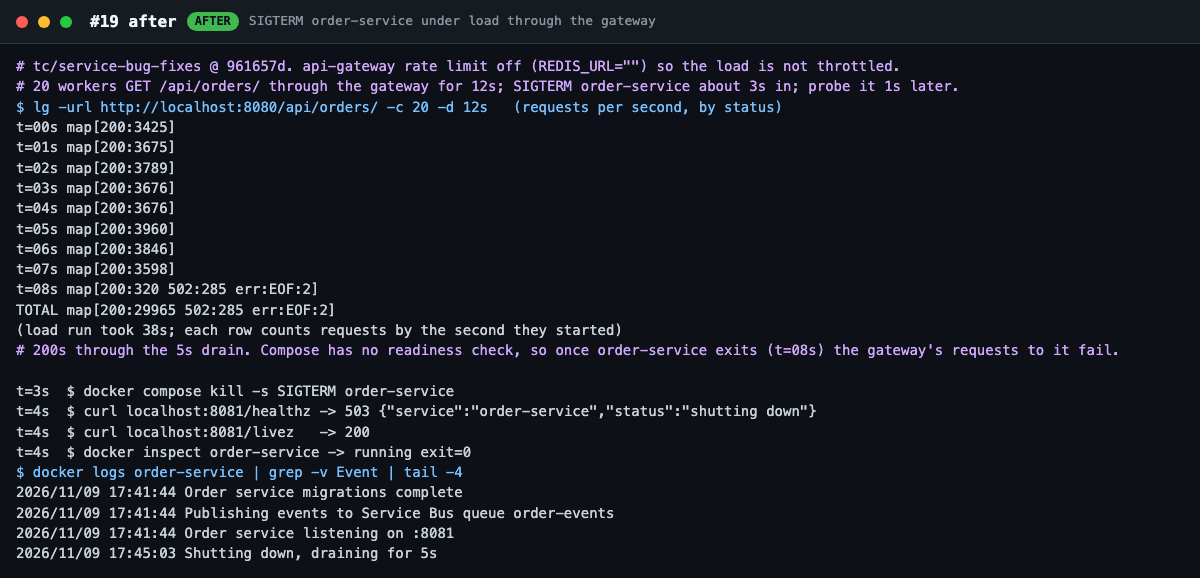
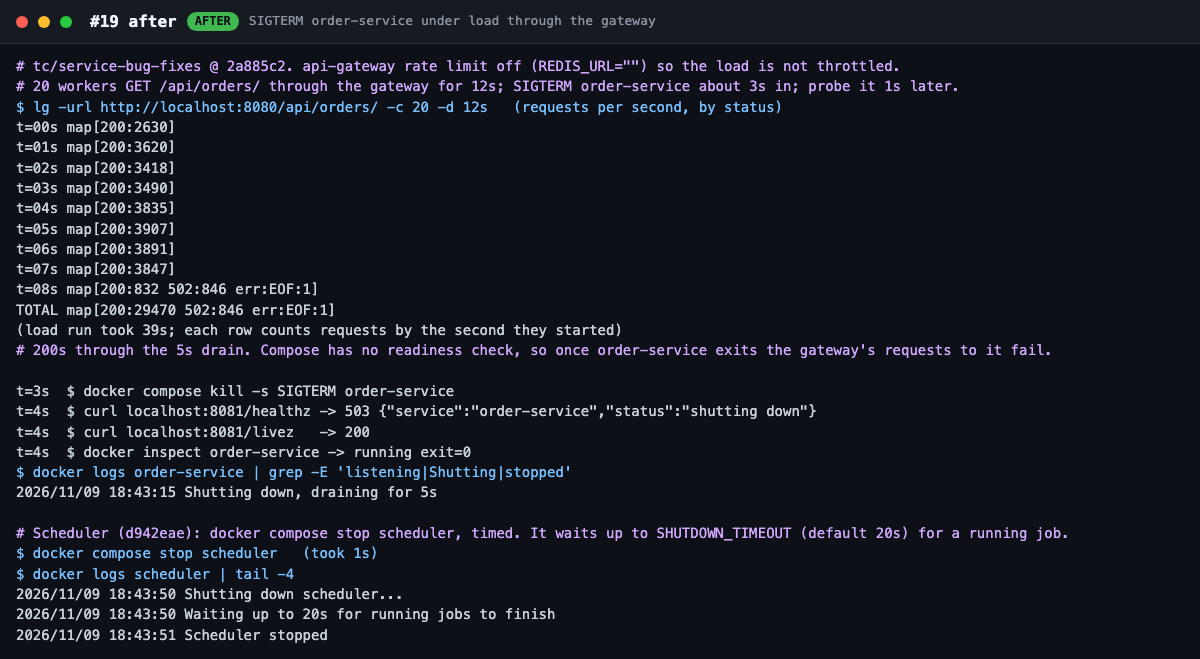
docs: add fix images and recapture the after screenshots
Each bug now has three images: before on main, the key lines of its fix, and after on the branch. The after images were recaptured at 2a885c2 under docker compose, so they include the later fixes for #19, #123, #128 and #129 and the role model from e467409. Scenarios that need an admin since e467409 sign in as admin@platform.local.

#128 also shows the X-Forwarded-For a backend receives. #129 adds a UI image of the page recovering from an expired token. The README lists the other fixes on the branch that are not tied to one of these bugs.

Part of #20

diff --git a/docs/screenshots/bugs/README.md b/docs/screenshots/bugs/README.md
@@ -1,73 +1,167 @@
 # Bug fix screenshots
 
-**TL;DR:** Before and after evidence for the nine bug fixes on `tc/service-bug-fixes`, for [#20](https://github.com/tahmidachoudhury/aks-v2-platform/issues/20). "Before" images come from `main` (574859d), "after" images from the branch (961657d), both under docker compose. All output was captured from the running stack. JWTs and the webhook secret are truncated.
+**TL;DR:** Evidence for nine bug fixes on `tc/service-bug-fixes`, for [#20](https://github.com/tahmidachoudhury/aks-v2-platform/issues/20). Each bug has three images. "Before" shows the bug on `main` (574859d). "Fix" shows the key lines of the change. "After" shows the same scenario on the branch at 2a885c2. The four commits after it (12edbc5, 8c9a640, ce76f7a, 4063259) do not change any scenario shown here. Before and after were captured from the running stack under docker compose. JWTs and the webhook secret are truncated.
 
-Most images are terminal panels showing the request and the real output. The two #129 UI images show the dashboard in Chromium, with the page's own requests listed underneath.
+Most images are terminal panels showing the request and the real output. The fix images are trimmed diffs: `...` marks lines left out. The #129 UI images show the dashboard in Chromium, with the page's own requests listed underneath.
+
+Since e467409, tokens carry a role. Only an admin can read the dashboard, add products, reserve stock, charge, refund or create shipments. Compose makes `admin@platform.local` an admin, so the after scenarios sign in as that admin for those calls. The before scenarios used alice or bob.
+
+[#134](https://github.com/tahmidachoudhury/aks-v2-platform/issues/134) (delivered orders never deduct stock) is a known open bug. It is not part of this set.
 
 ## #122: dashboard routes return 404 through the gateway
 
-[#122](https://github.com/tahmidachoudhury/aks-v2-platform/issues/122). `GET /api/dashboard/summary` with a JWT returns 404 before the fix and the summary JSON after it.
+[#122](https://github.com/tahmidachoudhury/aks-v2-platform/issues/122). `GET /api/dashboard/summary` with a JWT returns 404, because the gateway strips `/api/dashboard` and dashboard-api only serves `/dashboard/...`.
 
 ![#122 before](122-before.png)
+
+The gateway now proxies `/api/dashboard` to dashboard-api's `/dashboard` path ([4835113](https://github.com/tahmidachoudhury/aks-v2-platform/commit/4835113)).
+
+![#122 fix](122-fix.png)
+
+After, the same request returns the summary JSON, signed in as the admin.
+
 ![#122 after](122-after.png)
 
 ## #129: dashboard data has no auth
 
-[#129](https://github.com/tahmidachoudhury/aks-v2-platform/issues/129). Before, `:8086/dashboard/summary` returns revenue and order data with no token. After, it returns 401 directly and 401 through the gateway without a JWT, and 200 with one.
+[#129](https://github.com/tahmidachoudhury/aks-v2-platform/issues/129). `:8086/dashboard/summary` and `/dashboard/revenue` return revenue and order data with no token.
 
 ![#129 before](129-before.png)
+
+dashboard-api now rejects `/dashboard/*` without the identity the gateway sets ([12319b9](https://github.com/tahmidachoudhury/aks-v2-platform/commit/12319b9)), and only serves it to role `admin` ([e467409](https://github.com/tahmidachoudhury/aks-v2-platform/commit/e467409)). The gateway serves the UI page at `/` without a JWT, so the page and its API calls share one origin.
+
+![#129 fix](129-fix.png)
+
+After, it returns 401 straight to dashboard-api, 401 through the gateway without a JWT, 403 for alice (a customer) and 200 for the admin.
+
 ![#129 after](129-after.png)
 
-The dashboard UI under compose. On `main`, `:8080/` returns 401, and `:8086/` shows the stats with no login while every `/auth` and `/api` call 404s. After the fix, `:8080/` serves the page, it logs in, and every call and health dot is green.
+### Dashboard UI
+
+On `main`, `:8080/` returns 401. `:8086/` shows the stats with no login, while every `/auth` and `/api` call returns 404.
 
 ![#129 UI before](129-ui-before.png)
+
+The page only logged in when it had no saved token, so an expired token, or one signed with an old secret, left it empty. Its API calls now go through one helper that logs in again on a 401 and retries once ([dcb3d8c](https://github.com/tahmidachoudhury/aks-v2-platform/commit/dcb3d8c)). On load it also drops a saved token whose role is not admin, which would get 403 rather than 401 ([2a885c2](https://github.com/tahmidachoudhury/aks-v2-platform/commit/2a885c2)).
+
+![#129 UI fix](129-ui-fix.png)
+
+After, `:8080/` serves the page, it logs in as the admin, and every call and health dot is green.
+
 ![#129 UI after](129-ui-after.png)
+
+With an expired admin token in localStorage, the first six calls get 401. The page logs in once, retries them and loads. With a garbage token or alice's customer token, the page drops it before any call, logs in and loads.
+
+![#129 UI relogin](129-ui-relogin.png)
 
 ## #125: JWT_SECRET falls back to a public default
 
-[#125](https://github.com/tahmidachoudhury/aks-v2-platform/issues/125). Before, the gateway starts with an empty `JWT_SECRET`, and a token forged with `change-me-in-production` reads alice's orders. After, the gateway exits with `JWT_SECRET is required`, and the forged token gets 401.
+[#125](https://github.com/tahmidachoudhury/aks-v2-platform/issues/125). The gateway starts with an empty `JWT_SECRET`, and a token forged with `change-me-in-production` reads alice's orders.
 
 ![#125 before](125-before.png)
+
+The gateway now exits if `JWT_SECRET` is unset or empty ([d7c34b3](https://github.com/tahmidachoudhury/aks-v2-platform/commit/d7c34b3)).
+
+![#125 fix](125-fix.png)
+
+After, the gateway exits with `JWT_SECRET is required`, and the forged token gets 401.
+
 ![#125 after](125-after.png)
 
 ## #128: rate limit key comes from X-Forwarded-For
 
-[#128](https://github.com/tahmidachoudhury/aks-v2-platform/issues/128). 150 requests, each with a new forged `X-Forwarded-For`. Before: 150 × 200 and 150 Redis keys. After: 100 × 200, 50 × 429 and one key.
+[#128](https://github.com/tahmidachoudhury/aks-v2-platform/issues/128). 150 requests, each with a new forged `X-Forwarded-For`, all return 200 and make 150 Redis keys.
 
 ![#128 before](128-before.png)
+
+The rate limit reads `X-Forwarded-For` only from a proxy in `TRUSTED_PROXIES`, then takes the right-most untrusted hop ([bd28ecc](https://github.com/tahmidachoudhury/aks-v2-platform/commit/bd28ecc)). The gateway no longer overwrites the header with `ip:port` when proxying, so the chain reaches the backends intact ([dd53263](https://github.com/tahmidachoudhury/aks-v2-platform/commit/dd53263)).
+
+![#128 fix](128-fix.png)
+
+After, the same 150 requests give 100 × 200, 50 × 429 and one key. In the second part, `/api/notifications` points at a stub that echoes the `X-Forwarded-For` it receives. The client's chain arrives with the peer IP appended and no port.
+
 ![#128 after](128-after.png)
 
 ## #126: backends trust X-User-Email
 
-[#126](https://github.com/tahmidachoudhury/aks-v2-platform/issues/126). Before, order-service returns every order to a request with no `X-User-Email`, and bob reads alice's order. After, the request with no header gets 401, bob gets 404 on alice's order, and bob still reads his own.
+[#126](https://github.com/tahmidachoudhury/aks-v2-platform/issues/126). order-service returns every order to a request with no `X-User-Email`, and bob reads alice's order.
 
 ![#126 before](126-before.png)
+
+The gateway drops identity headers sent by the client, and every backend needs `X-User-Email` ([ae8a201](https://github.com/tahmidachoudhury/aks-v2-platform/commit/ae8a201)). Tokens now carry role `customer` or `admin`, and customers only see and change their own data ([e467409](https://github.com/tahmidachoudhury/aks-v2-platform/commit/e467409)). A customer can only cancel their own order. Any other status change needs admin or service ([27bf031](https://github.com/tahmidachoudhury/aks-v2-platform/commit/27bf031)). The image shows order-service. The other backends follow the same rules.
+
+![#126 fix](126-fix.png)
+
+After, the request with no header gets 401. Bob gets 404 on alice's order and still reads his own. Bob gets 404 trying to cancel alice's order, and alice gets 403 trying to mark her own order delivered.
+
 ![#126 after](126-after.png)
 
 ## #124: charge ignores ledger and commit errors
 
-[#124](https://github.com/tahmidachoudhury/aks-v2-platform/issues/124). A `CHECK (false)` constraint makes every ledger insert fail. Before, the charge returns 201 `completed` with no payment row, and the worker confirms the order. After, it returns 500 and publishes no event.
+[#124](https://github.com/tahmidachoudhury/aks-v2-platform/issues/124). A `CHECK (false)` constraint makes every ledger insert fail. The charge still returns 201 `completed` with no payment row, and the worker confirms the order.
 
 ![#124 before](124-before.png)
+
+Both ledger inserts and the commit now return 500 on error, before any event is published ([983f2b5](https://github.com/tahmidachoudhury/aks-v2-platform/commit/983f2b5)).
+
+![#124 fix](124-fix.png)
+
+After, the same charge, made by the admin, returns 500 and publishes no event.
+
 ![#124 after](124-after.png)
 
 ## #127: shipping webhook has no auth
 
-[#127](https://github.com/tahmidachoudhury/aks-v2-platform/issues/127). Before, a webhook with no secret and status `delivered.FAKE` returns 200 and writes that status to the shipment. After, it gets 401 without the secret and 400 for the invented status, and a known status still works.
+[#127](https://github.com/tahmidachoudhury/aks-v2-platform/issues/127). A webhook with no secret and status `delivered.FAKE` returns 200 and writes that status to the shipment.
 
 ![#127 before](127-before.png)
+
+The webhook now checks `X-Webhook-Secret` against `SHIPPING_WEBHOOK_SECRET`, and accepts only four known statuses ([37c36b6](https://github.com/tahmidachoudhury/aks-v2-platform/commit/37c36b6)).
+
+![#127 fix](127-fix.png)
+
+After, it returns 401 without the secret and 400 for the invented status. A known status still works.
+
 ![#127 after](127-after.png)
 
 ## #123: scheduler cancels orders outside the state machine
 
-[#123](https://github.com/tahmidachoudhury/aks-v2-platform/issues/123). The scheduler cancels a pending order with 3 widgets reserved, backdated 31 minutes. Before, there is no `order_events` row and the reservation stays active. After, there is a `pending → cancelled` row and the reservation is released.
+[#123](https://github.com/tahmidachoudhury/aks-v2-platform/issues/123). The scheduler cancels a pending order with 3 widgets reserved, backdated 31 minutes. No `order_events` row is written, the reservation stays active, and the log line carries alice's email.
 
 ![#123 before](123-before.png)
+
+The scheduler now cancels through order-service's `/status` and releases stock through inventory-service ([c117707](https://github.com/tahmidachoudhury/aks-v2-platform/commit/c117707)). It no longer logs the customer ([2465958](https://github.com/tahmidachoudhury/aks-v2-platform/commit/2465958)).
+
+![#123 fix](123-fix.png)
+
+After, there is a `pending → cancelled` row, the reservation is released, and the log line shows only the order ID.
+
 ![#123 after](123-after.png)
 
 ## #19: graceful shutdown on SIGTERM
 
-[#19](https://github.com/tahmidachoudhury/aks-v2-platform/issues/19). SIGTERM to order-service under load through the gateway. Before, the process exits at once and the gateway returns 502s. After, requests keep returning 200 through the 5s drain, while `/healthz` returns 503 and `/livez` returns 200. Compose has no readiness check, so the 502s after the drain, once the container has exited, are expected here.
+[#19](https://github.com/tahmidachoudhury/aks-v2-platform/issues/19). SIGTERM to order-service under load through the gateway. The process exits at once, and the gateway returns 502s.
 
 ![#19 before](19-before.png)
+
+Each HTTP service now fails `/healthz` on SIGTERM, keeps serving for `SHUTDOWN_DRAIN_DELAY` (5s), then lets in-flight requests finish ([961657d](https://github.com/tahmidachoudhury/aks-v2-platform/commit/961657d)). The scheduler waits at most `SHUTDOWN_TIMEOUT` (20s) for running jobs ([d942eae](https://github.com/tahmidachoudhury/aks-v2-platform/commit/d942eae)), and every job, not only `abandoned_carts`, stops on shutdown ([4063259](https://github.com/tahmidachoudhury/aks-v2-platform/commit/4063259), after these images were taken). Compose starts it after order-service and inventory-service ([0521b4c](https://github.com/tahmidachoudhury/aks-v2-platform/commit/0521b4c)).
+
+![#19 fix](19-fix.png)
+
+After, requests keep returning 200 through the 5s drain, while `/healthz` returns 503 and `/livez` returns 200. Compose has no readiness check, so the 502s after the drain, once the container has exited, are expected. Stopping the scheduler logs the bounded wait.
+
 ![#19 after](19-after.png)
+
+## Other fixes on this branch
+
+These have no screenshots and are not tied to one of the nine bugs.
+
+- [2e6ab6d](https://github.com/tahmidachoudhury/aks-v2-platform/commit/2e6ab6d): the gateway matches route prefixes on a `/` boundary, so `/api/ordersfoo` no longer reaches order-service.
+- [ea224f2](https://github.com/tahmidachoudhury/aks-v2-platform/commit/ea224f2): payment-service locks the payment during a refund and checks every write.
+- [dfc5544](https://github.com/tahmidachoudhury/aks-v2-platform/commit/dfc5544): notifications, reservation expiry and the dashboard stop ignoring database errors.
+- [d2c75a3](https://github.com/tahmidachoudhury/aks-v2-platform/commit/d2c75a3): notification-service fills template placeholders from the request data.
+- [22edf76](https://github.com/tahmidachoudhury/aks-v2-platform/commit/22edf76): shipping-service returns shipments with NULL columns instead of a 404.
+- [01e8e66](https://github.com/tahmidachoudhury/aks-v2-platform/commit/01e8e66): inventory-service claims reservations before `/release` returns their stock, so release and expiry cannot both return it.
+- [12edbc5](https://github.com/tahmidachoudhury/aks-v2-platform/commit/12edbc5): shipping-service handles NULLs and errors in the shipment list and the owner lookup.
+- [8c9a640](https://github.com/tahmidachoudhury/aks-v2-platform/commit/8c9a640): notification-service renders template numbers as the request wrote them.
+- [ce76f7a](https://github.com/tahmidachoudhury/aks-v2-platform/commit/ce76f7a): payment-service rounds refunds to pence and fails `/balance` on query errors.
